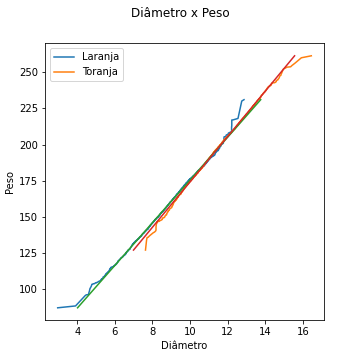
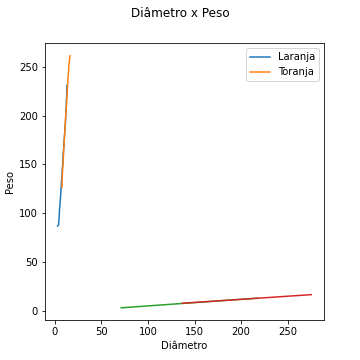
Finalizar aula 4 e corrigir troca de valores em extra3.py

diff --git a/aula4.py b/aula4.py
@@ -1,0 +1,108 @@
+import numpy as np
+import matplotlib.pyplot as plt
+
+url = 'https://raw.githubusercontent.com/alura-cursos/numpy/dados/apples_ts.csv'
+
+dados = np.loadtxt(url,delimiter=',',usecols=np.arange(1,88,1)) # arange está nos ajudandos a pegar as colunas que queremos, excluindo as colunas de texto. 88 = 7 anos  * 12 meses + 3 (ano incompleto) + 1
+dado_transposto = dados.T # transpoe o dado
+
+# datas = dado_transposto[:,0] # todo o intervalo no primeiro (0) array
+# com o método acima ele está interpretando as datas (no formato 1.2013) como um número
+datas = np.arange(1,88,1) # gerando novamente um array de 1 a 88, para numerar os meses(mes 1, mes 2, mes 20... etc)
+precos = dado_transposto[:,1:6]
+# formato: [(range de linhas do array), (range de colunas do array)], 1:6 seleciona as colunas 1, 2, 3, 4, e 5
+
+# criando uma variavel para cada coluna de precos, chamando as cidades separadamente
+Moscow = precos[:,0] # array unidimensional, uma sequencia de valores
+Kaliningrad = precos[:,1]
+Petersburg = precos[:,2]
+Krasnodar = precos[:,3]
+Ekaterinburg = precos[:,4]
+
+Moscow_ano1 = Moscow[0:12] # posicao 0 ate a 11
+Moscow_ano2 = Moscow[12:24] # posical 12 ate a 23
+Moscow_ano3 = Moscow[24:36] # etc ...
+Moscow_ano4 = Moscow[36:48]
+
+Kaliningrad_ano1 = Kaliningrad[0:12] # posicao 0 ate a 11
+Kaliningrad_ano2 = Kaliningrad[12:24] # posical 12 ate a 23
+Kaliningrad_ano3 = Kaliningrad[24:36] # etc ...
+Kaliningrad_ano4 = Kaliningrad[36:48]
+
+
+# PLOTTING
+# MOSCOW
+my_dpi = 72
+fig_Moscow = plt.figure(figsize=(10,10), dpi=my_dpi)
+
+ax_Moscow = fig_Moscow.add_subplot(1,1,1)
+ax_Moscow.plot(np.arange(1,13,1), Moscow_ano1)
+ax_Moscow.plot(np.arange(1,13,1), Moscow_ano2)
+ax_Moscow.plot(np.arange(1,13,1), Moscow_ano3)
+ax_Moscow.plot(np.arange(1,13,1), Moscow_ano4)
+ax_Moscow.legend(['ano1','ano2','ano3', 'ano4'])
+# np.array_equal(Moscow_ano3, Moscow_ano4) # checa se dois arrays sao iguais
+# np.allclose(Moscow_ano3, Moscow_ano4, 0.01) # checa se a diference entre arrays é maior que 0.01
+
+fig_Moscow_crescimento = plt.figure(figsize=(10,10), dpi=my_dpi)
+ax_Moscow_crescimento = fig_Moscow_crescimento.add_subplot(1,1,1)
+ax_Moscow_crescimento.plot(datas, Moscow)
+# queremos fazer uma reta de crescimento do preço das maças (REGRESSÃO LINEAR)
+# y = ax + b
+x = datas
+# y = 0.3*x+80 ?
+
+# coeficiente linear da reta (b):
+b = 80
+
+## DESCOBRINDO O COEFICIENTE ANGULAR POR MEIO DE NUMEROS ALEATÓRIOS (MÉTODO 2)
+np.random.seed(84)
+coef_angular = np.random.uniform(low=0.10,high=0.90, size=100)
+# testando cada um dos coeficientes gerados:
+norma = np.array([])
+for i in range(100):
+    norma = np.append(norma, np.linalg.norm(Moscow-(coef_angular[i]*x+b)))
+
+a = coef_angular[np.where(norma == min(norma))[0]]
+
+y = a*x + b
+# checando a diferença entre a linha que fizemos e o crescimento real: np.sqrt(np.sum(np.power(Moscow-y,2)))
+# ou:
+print(np.linalg.norm(Moscow-y))
+
+# np.column_stack: une dois ou mais arrays, lado a lado, como colunas em uma matriz
+dados_agregados = np.column_stack([norma,coef_angular])
+np.savetxt('dados.csv',dados_agregados,delimiter=',')
+
+ax_Moscow_crescimento.plot(x,y)
+
+# com a regressão linear conseguimos fazer ESTIMATIVA DE VALORES
+# por exemplo:
+ax_Moscow_crescimento.plot(41.5, a*41.5+b, '*r') # *r faz ele um ponto vermelho
+# estimando valores futuros:
+ax_Moscow_crescimento.plot(100, a*100+b, '*r') # *r faz ele um ponto vermelho
+
+# KALININGRAD
+nan_location = np.asarray(np.isnan(Kaliningrad)).nonzero()[0] # acha as localizacoes dos nans 
+for nan_pos in nan_location:
+    Kaliningrad[nan_pos] = np.mean(Kaliningrad[nan_pos-1]+Kaliningrad[nan_pos+1])
+
+fig_Kaliningrad = plt.figure(figsize=(10,10), dpi=my_dpi)
+
+ax_Kaliningrad = fig_Kaliningrad.add_subplot(1,1,1)
+ax_Kaliningrad.plot(np.arange(1,13,1), Kaliningrad_ano1)
+ax_Kaliningrad.plot(np.arange(1,13,1), Kaliningrad_ano2)
+ax_Kaliningrad.plot(np.arange(1,13,1), Kaliningrad_ano3)
+ax_Kaliningrad.plot(np.arange(1,13,1), Kaliningrad_ano4)
+ax_Kaliningrad.legend(['ano1','ano2','ano3', 'ano4'])
+
+
+def save_fig(my_fig, my_ax, cidade : str = ''):
+    my_ax.set_xlabel('Mês')
+    my_ax.set_ylabel('Preço')
+    my_fig.suptitle(f'Preço {cidade}')
+    my_fig.savefig(f'{cidade}_plot.png')
+
+save_fig(fig_Moscow, ax_Moscow, 'figures/Moscow')
+save_fig(fig_Moscow_crescimento, ax_Moscow_crescimento, 'figures/Moscow_crescimento')
+save_fig(fig_Kaliningrad, ax_Kaliningrad, 'figures/Kaliningrad')

diff --git a/extra4.py b/extra4.py
@@ -1,0 +1,52 @@
+# Chegou a hora de você testar os conhecimentos desenvolvidos durante a aula. Continuando com o projeto das laranjas/toranjas, agora você deve calcular o coeficiente angular utilizando a geração de números aleatórios. Assuma que já conhece b e que este é igual a 17.
+
+import numpy as np
+import matplotlib.pyplot as plt
+
+url = 'https://raw.githubusercontent.com/allanspadini/numpy/dados/citrus.csv'
+
+dados = np.loadtxt(url,delimiter=',',usecols=np.arange(1,6,1),skiprows=1)
+print(np.shape(dados))
+
+diametro_laranja = dados[:5000,0]
+peso_laranja = dados[:5000,1]
+diametro_toranja = dados[5000:,0]
+peso_toranja = dados[5000:,1]
+
+my_dpi = 72
+fig_citrus = plt.figure(figsize=(7,7), dpi=my_dpi)
+
+ax_citrus = fig_citrus.add_subplot(1,1,1)
+ax_citrus.plot(diametro_laranja, peso_laranja)
+ax_citrus.plot(diametro_toranja, peso_toranja)
+ax_citrus.legend(['Laranja','Toranja'])
+ax_citrus.set_xlabel('Diâmetro')
+ax_citrus.set_ylabel('Peso')
+
+# y = ax + b
+x_l = peso_laranja
+x_t = peso_toranja
+
+b_l = b_t = 17
+
+np.random.seed(10)
+a_candidates = np.random.uniform(low=0.1, high=30.0, size=200)
+
+norma_l = np.array([])
+norma_t = np.array([])
+
+for i in range(100):
+    norma_l = np.append(norma_l, np.linalg.norm(diametro_laranja-(a_candidates[i]*x_l+b_l)))
+    norma_t = np.append(norma_t, np.linalg.norm(diametro_toranja-(a_candidates[i]*x_t+b_t)))
+
+a_l = a_candidates[np.where(norma_l == min(norma_l))[0]]
+a_t = a_candidates[np.where(norma_t == min(norma_t))[0]]
+
+y_l = a_l*x_l + b_l
+y_t = a_t*x_t + b_t
+
+ax_citrus.plot(y_l, x_l)
+ax_citrus.plot(y_t, x_t)
+
+fig_citrus.suptitle(f'Diâmetro x Peso')
+fig_citrus.savefig(f'figures/citrus_plot_coefRandom.png')

diff --git a/extra3.py b/extra3.py
@@ -13,7 +13,7 @@ diametro_toranja = dados[5000:,0]
 peso_toranja = dados[5000:,1]
 
 my_dpi = 72
-fig_citrus = plt.figure(figsize=(5,5), dpi=my_dpi)
+fig_citrus = plt.figure(figsize=(7,7), dpi=my_dpi)
 
 ax_citrus = fig_citrus.add_subplot(1,1,1)
 ax_citrus.plot(diametro_laranja, peso_laranja)
@@ -23,16 +23,17 @@ ax_citrus.set_xlabel('Diâmetro')
 ax_citrus.set_ylabel('Peso')
 
 # y = ax + b
-x_l = peso_laranja
-x_t = peso_toranja
+x_l = diametro_laranja
+x_t = diametro_toranja
 
 x_li = x_l
-y_li = diametro_laranja
+y_li = peso_laranja
 x_ti = x_t
-y_ti = diametro_toranja
+y_ti = peso_toranja
 
-n_l = np.size(peso_laranja)
-n_t = np.size(peso_toranja)
+n_l = np.size(x_li)
+n_t = np.size(y_li)
+
 a_l = (n_l*np.sum(x_li*y_li) - np.sum(x_li)*np.sum(y_li)) / (n_l*np.sum(x_li**2) - np.sum(x_li)**2)
 a_t = (n_t*np.sum(x_ti*y_ti) - np.sum(x_ti)*np.sum(y_ti)) / (n_t*np.sum(x_ti**2) - np.sum(x_ti)**2)
 
@@ -42,8 +43,8 @@ b_t = np.mean(y_ti) - a_t*np.mean(x_ti)
 y_l = a_l*x_l + b_l
 y_t = a_t*x_t + b_t
 
-ax_citrus.plot(y_l, x_l)
-ax_citrus.plot(y_t, x_t)
+ax_citrus.plot(x_l, y_l)
+ax_citrus.plot(x_t, y_t)
 
 fig_citrus.suptitle(f'Diâmetro x Peso')
-fig_citrus.savefig(f'figures/citrus_plot.png')
+fig_citrus.savefig(f'figures/citrus_plot_extra3.png')

diff --git a/extra2.py b/extra2.py
@@ -26,4 +26,4 @@ ax_citrus.legend(['Laranja','Toranja'])
 ax_citrus.set_xlabel('Diâmetro')
 ax_citrus.set_ylabel('Peso')
 fig_citrus.suptitle(f'Diâmetro x Peso')
-fig_citrus.savefig(f'citrus_plot.png')
+fig_citrus.savefig(f'figures/citrus_plot_extra2.png')
